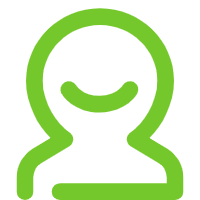
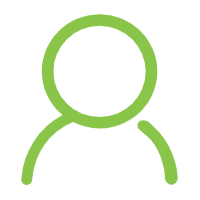
icon修改

diff --git a/client/src/app.config.ts b/client/src/app.config.ts
@@ -16,8 +16,8 @@ const config: Config = {
     list: [
       {
         pagePath: 'pages/pocket/index',
-        iconPath: './images/mine.png',
-        selectedIconPath: './images/mineSelected.png',
+        iconPath: './images/pocket.png',
+        selectedIconPath: './images/pocketSelected.png',
         text: '口袋'
       },
       {
